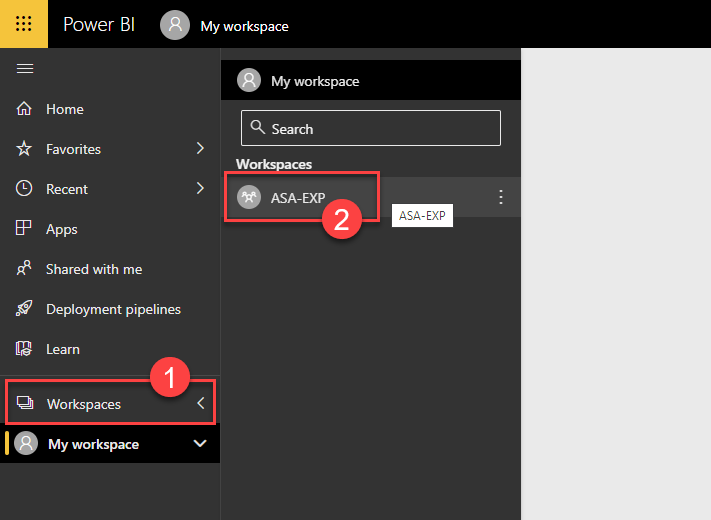
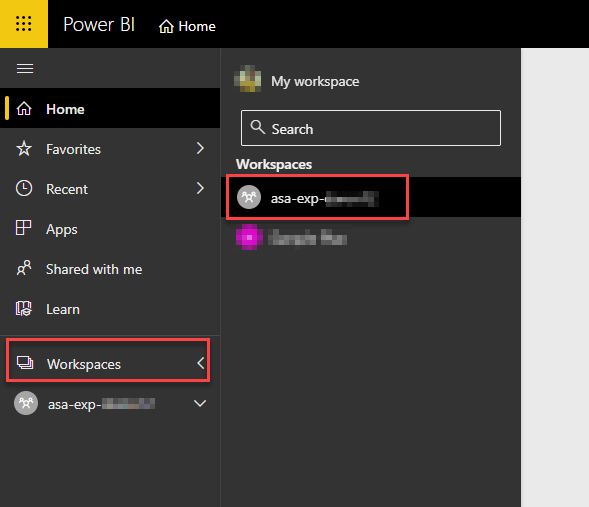
PowerBI Workspace Suffix Changes

diff --git a/Before-Starting.md b/Before-Starting.md
@@ -146,9 +146,9 @@ When executing the script below, it is important to let the scripts run to compl
 
 3. Sign in into the [Power BI Portal](https://powerbi.microsoft.com/en-us/) using your Azure credentials.
 
-4. From the hamburger menu select **Workspaces** to access the list of workspaces available to you. Select the workspace named `ASA-EXP`.
+4. From the hamburger menu select **Workspaces** to access the list of workspaces available to you. Select the workspace named `asa-exp{your-unique-id}`.
 
-![The workspaces button from the hamburger menu is selected to list workspaces available. The ASA-EXP workspace is selected.](media/powerbi_workspace_selection.png)
+![The workspaces button from the hamburger menu is selected to list workspaces available. The workspace named asa-exp followed by your unique suffix is selected.](media/powerbi_workspace_selection.png)
 
 5. Select the **Settings** icon from the top right bar, and select **Settings** again to navigate to the settings page.
 
